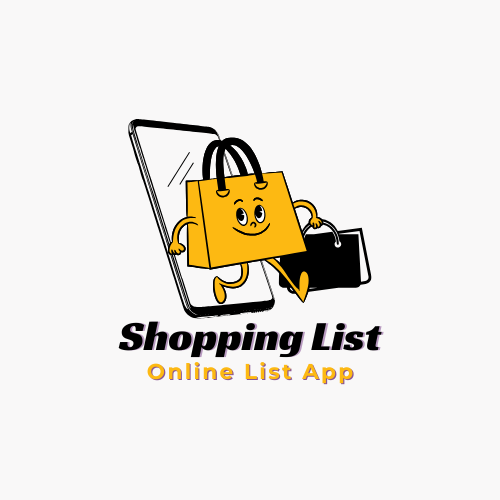
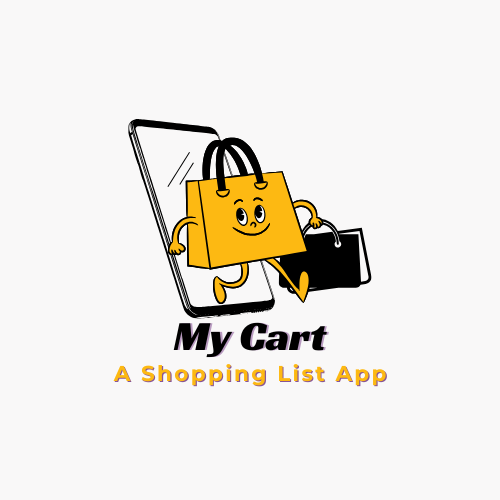
Updated header title to MyCart

Changed region(s): [[0.21, 0.63, 0.78, 0.78]]

diff --git a/App.js b/App.js
@@ -114,13 +114,13 @@ export default function App() {
         {/* HEADER */}
         <View style={styles.headerBox}>
           <Text style={[styles.headerTitle, darkMode && { color: "white" }]}>
-            Shopping List
+            My Cart
           </Text>
 
           <View style={styles.headerRight}>
             <Pressable
               onPress={() => setDarkMode(!darkMode)}
-              style={{ marginRight: 45 }}
+              style={{ marginRight: 25 }}
             >
               {darkMode ? (
                 <Ionicons name="sunny" size={30} color="white" />
